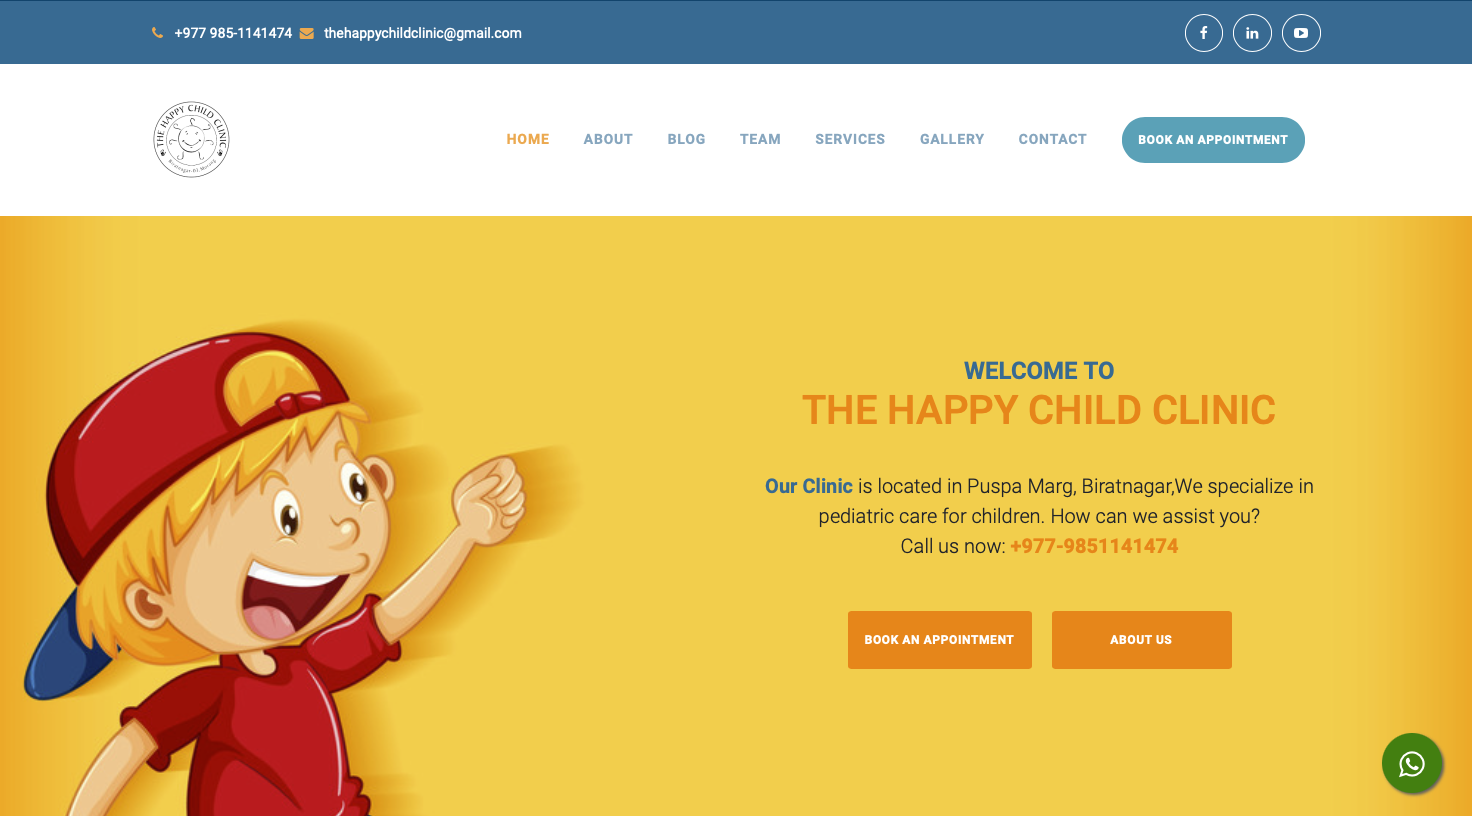
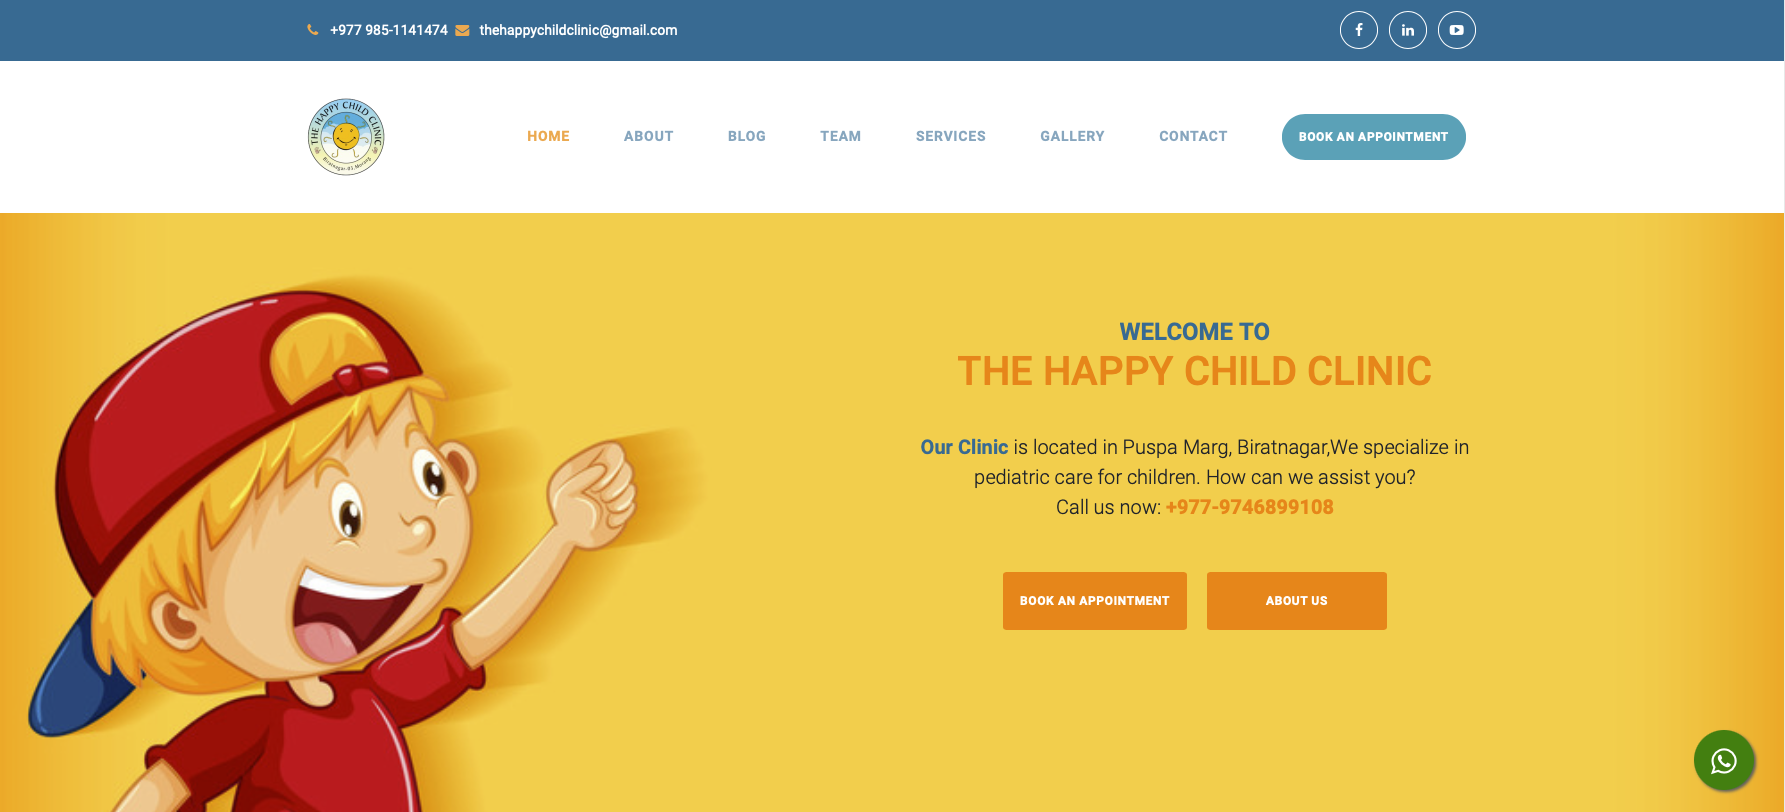
update
-og image updated
-navbar logo size changed

diff --git a/css/main.css b/css/main.css
@@ -17294,7 +17294,8 @@ a.logo {
 
 a.logo img {
     display: inline-block;
-    max-height: 80px
+    /* max-height: 80px */
+    max-height: 90px;
 }
 
 a.logo .logo-text {
